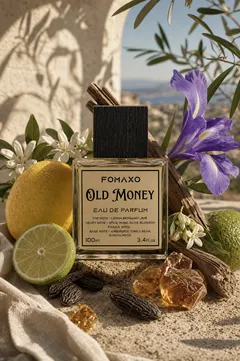
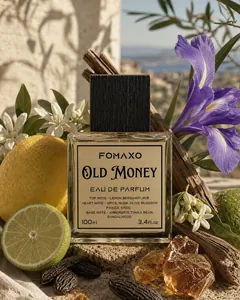
Same bottle size in every 50ml and 100ml photo (zoomed crops)
Claude-Session: https://claude.ai/code/session_01RdpYFyWZFVz91MJPvPAq8Q

diff --git a/index.html b/index.html
@@ -2308,7 +2308,7 @@ window.STORE = {
       ],
       notes: { top: "Lemon · Bergamot · Vervain", heart: "Star Anise · Olive Blossom · Guaiac Wood", base: "Ambergris · Leather · Sandalwood" },
       sizes: [10, 50, 100], prices: { 10: 40, 50: 90, 100: 150 }, compareAt: { 10: 80, 50: 150, 100: 300 },
-      images: ["oldmoney-50-main", "oldmoney-2", "oldmoney-3", "oldmoney-4"], sizeImages: { 100: "oldmoney-100-v2" }, extraImages: ["oldmoney-100b"], miniImage: "oldmoney-10-main", miniImages: ["oldmoney-10-main", "oldmoney-10-1", "oldmoney-10-2", "oldmoney-10-3"],
+      images: ["oldmoney-50-v2", "oldmoney-2", "oldmoney-3", "oldmoney-4"], sizeImages: { 100: "oldmoney-100-v2" }, extraImages: ["oldmoney-100b"], miniImage: "oldmoney-10-main", miniImages: ["oldmoney-10-main", "oldmoney-10-1", "oldmoney-10-2", "oldmoney-10-3"],
       url: "https://fomaxo.com/fomaxo-old-money"
     },
     {
@@ -2320,7 +2320,7 @@ window.STORE = {
       ],
       notes: { top: "Green Tangerine · Lemon · Sage", heart: "Candy · Gardenia · Cinnamon · Praline", base: "Black Amber · Rosewood · Musk" },
       sizes: [10, 50, 100], prices: { 10: 40, 50: 90, 100: 150 }, compareAt: { 10: 80, 50: 150, 100: 300 },
-      images: ["royalcandy-50-main", "royalcandy-2"], sizeImages: { 100: "royalcandy-100-v2" }, miniImage: "royalcandy-10-main", miniImages: ["royalcandy-10-main", "royalcandy-10-1", "royalcandy-10-2", "royalcandy-10-3"],
+      images: ["royalcandy-50-v2", "royalcandy-2"], sizeImages: { 100: "royalcandy-100-v2" }, miniImage: "royalcandy-10-main", miniImages: ["royalcandy-10-main", "royalcandy-10-1", "royalcandy-10-2", "royalcandy-10-3"],
       url: "https://fomaxo.com/fomaxo-royal-candy"
     },
     {
@@ -2344,7 +2344,7 @@ window.STORE = {
       ],
       notes: { top: "Matcha Tea · Rose · Cinnamon", heart: "Orange Blossom · Lily of the Valley · Tea Rose", base: "Coconut · Vanilla · Amber" },
       sizes: [10, 50, 100], prices: { 10: 40, 50: 90, 100: 150 }, compareAt: { 10: 80, 50: 150, 100: 300 },
-      images: ["matchacoco-50-main", "matchacoco-model", "matchacoco-2", "matchacoco-3"], sizeImages: { 100: "matchacoco-100-v2" }, miniImage: "matchacoco-10-main", miniImages: ["matchacoco-10-main", "matchacoco-10-1", "matchacoco-10-2"],
+      images: ["matchacoco-50-v2", "matchacoco-model", "matchacoco-2", "matchacoco-3"], sizeImages: { 100: "matchacoco-100-v2" }, miniImage: "matchacoco-10-main", miniImages: ["matchacoco-10-main", "matchacoco-10-1", "matchacoco-10-2"],
       url: ""
     },
     {
@@ -2356,7 +2356,7 @@ window.STORE = {
       ],
       notes: { top: "Passion Fruit · Lemon · Apple", heart: "Litchi · Patchouli · Bergamot", base: "Juniper Berry · Vetiver · Cedar" },
       sizes: [10, 50, 100], prices: { 10: 40, 50: 90, 100: 150 }, compareAt: { 10: 80, 50: 150, 100: 300 },
-      images: ["passionsin-main", "passionsin-2", "passionsin-3"], sizeImages: { 100: "passionsin-100-v2" }, miniImage: "passionsin-10-main", miniImages: ["passionsin-10-main", "passionsin-10-1", "passionsin-10-2", "passionsin-10-3"],
+      images: ["passionsin-50-v2", "passionsin-2", "passionsin-3"], sizeImages: { 100: "passionsin-100-v2" }, miniImage: "passionsin-10-main", miniImages: ["passionsin-10-main", "passionsin-10-1", "passionsin-10-2", "passionsin-10-3"],
       url: ""
     },
     {
@@ -2406,7 +2406,7 @@ const app = $('#app');
 const IMG = k => `assets/img/${k}.webp`;
 /* lighter copies of the photos for faster loading: t/ is 720px wide (product cards on laptops), s/ is 240px (small pictures in the bag,
    search, lists). Only the photos listed here have them; a photo uploaded later on the admin just uses the full photo. */
-const IMG_W = {"atelier":1027,"boutique-hq":1200,"boutique-people":848,"boutique-about":1145,"boutique":984,"discovery-1":800,"discovery-2":961,"discovery-3":984,"dollar-1":1114,"dollar-2":1043,"dollar-3":1398,"dollar-4":1394,"dollar-main":819,"dollar-main2":819,"elite-card":865,"elite-lounge-hq":848,"elite-lounge":862,"gift-1":984,"gift-2-hq":884,"gift-2":984,"gift-set-1-hq":986,"gift-set-1":1300,"gift-set-2-hq":925,"gift-set-2":1300,"gift-set-3-hq":857,"gift-set-3":1218,"gift-set-4-hq":841,"gift-set-4":1112,"gift-set-5-hq":856,"gift-set-5":1083,"gift-set-6-hq":860,"gift-set-6":1300,"gift-set-7-hq":1047,"gift-set-7":1300,"gold-1":1046,"gold-2":1046,"gold-3":1110,"gold-main":819,"gold-main2":819,"king-1":1048,"king-2":1048,"king-3":1048,"king-4":1048,"king-5":1400,"king-main":819,"matchacoco-1":1400,"matchacoco-100-v2":1100,"oldmoney-100-v2":1100,"passionsin-100-v2":1100,"royalcandy-100-v2":1100,"matchacoco-50-main":688,"matchacoco-model":730,"matchacoco-100-main":1100,"oldmoney-50-main":1100,"oldmoney-100-main":688,"royalcandy-50-main":688,"royalcandy-100-main":1100,"matchacoco-10-1":1013,"matchacoco-10-main":688,"matchacoco-10-2":1004,"matchacoco-100":799,"matchacoco-2":785,"matchacoco-3":773,"matchacoco-main":819,"matchacoco-main2":819,"oldmoney-1":1250,"oldmoney-10-1":782,"oldmoney-10-main":688,"oldmoney-10-2":859,"oldmoney-100":953,"oldmoney-100b":1153,"oldmoney-2":912,"oldmoney-3":917,"oldmoney-main":819,"passionsin-1":896,"passionsin-10-1":933,"passionsin-10-main":688,"passionsin-10-2":924,"passionsin-10-3":912,"passionsin-2":934,"passionsin-3":1400,"passionsin-main":819,"personal-care-poster":1024,"personal-care":842,"royalcandy-1":832,"royalcandy-10-1":764,"royalcandy-10-main":688,"royalcandy-10-2":858,"royalcandy-10-3":867,"royalcandy-100":1300,"royalcandy-2":1002,"royalcandy-main":819,"runway":805,"runway-couture":1024,"runway-couture-2":1024,"runway-personal-care":1024};
+const IMG_W = {"atelier":1027,"boutique-hq":1200,"boutique-people":848,"boutique-about":1145,"boutique":984,"discovery-1":800,"discovery-2":961,"discovery-3":984,"dollar-1":1114,"dollar-2":1043,"dollar-3":1398,"dollar-4":1394,"dollar-main":819,"dollar-main2":819,"elite-card":865,"elite-lounge-hq":848,"elite-lounge":862,"gift-1":984,"gift-2-hq":884,"gift-2":984,"gift-set-1-hq":986,"gift-set-1":1300,"gift-set-2-hq":925,"gift-set-2":1300,"gift-set-3-hq":857,"gift-set-3":1218,"gift-set-4-hq":841,"gift-set-4":1112,"gift-set-5-hq":856,"gift-set-5":1083,"gift-set-6-hq":860,"gift-set-6":1300,"gift-set-7-hq":1047,"gift-set-7":1300,"gold-1":1046,"gold-2":1046,"gold-3":1110,"gold-main":819,"gold-main2":819,"king-1":1048,"king-2":1048,"king-3":1048,"king-4":1048,"king-5":1400,"king-main":819,"matchacoco-1":1400,"oldmoney-50-v2":880,"royalcandy-50-v2":636,"matchacoco-50-v2":524,"passionsin-50-v2":591,"oldmoney-100-v2":880,"royalcandy-100-v2":880,"matchacoco-100-v2":870,"passionsin-100-v2":880,"matchacoco-50-main":688,"matchacoco-model":730,"matchacoco-100-main":1100,"oldmoney-50-main":1100,"oldmoney-100-main":688,"royalcandy-50-main":688,"royalcandy-100-main":1100,"matchacoco-10-1":1013,"matchacoco-10-main":688,"matchacoco-10-2":1004,"matchacoco-100":799,"matchacoco-2":785,"matchacoco-3":773,"matchacoco-main":819,"matchacoco-main2":819,"oldmoney-1":1250,"oldmoney-10-1":782,"oldmoney-10-main":688,"oldmoney-10-2":859,"oldmoney-100":953,"oldmoney-100b":1153,"oldmoney-2":912,"oldmoney-3":917,"oldmoney-main":819,"passionsin-1":896,"passionsin-10-1":933,"passionsin-10-main":688,"passionsin-10-2":924,"passionsin-10-3":912,"passionsin-2":934,"passionsin-3":1400,"passionsin-main":819,"personal-care-poster":1024,"personal-care":842,"royalcandy-1":832,"royalcandy-10-1":764,"royalcandy-10-main":688,"royalcandy-10-2":858,"royalcandy-10-3":867,"royalcandy-100":1300,"royalcandy-2":1002,"royalcandy-main":819,"runway":805,"runway-couture":1024,"runway-couture-2":1024,"runway-personal-care":1024};
 const SM = k => IMG_W[k] ? `assets/img/s/${k}.webp` : IMG(k);
 const CARD_SIZES = '(max-width:600px) 92vw, (max-width:1100px) 46vw, min(31vw, 500px)';
 const cardPic = k => `src="${IMG(k)}"` + (IMG_W[k] ? ` srcset="assets/img/t/${k}.webp 720w, ${IMG(k)} ${IMG_W[k]}w" sizes="${CARD_SIZES}"` : '');

diff --git a/orders-lib.php b/orders-lib.php
@@ -148,10 +148,11 @@ function fomaxo_db_schema($pdo) {
     $set->execute([fomaxo_json($d), $id]);
   }
   $pdo->exec("REPLACE INTO fx_settings (k, v) VALUES ('schema', '23')");
-  /* v24: newer 100ml bottle photos for Old Money, Royal Candy, Matcha Coco and Passion Sin */
-  foreach (['oldmoney', 'royalcandy', 'matchacoco', 'passionsin'] as $id) {
+  /* v24: newer 100ml bottle photos for Old Money, Royal Candy, Matcha Coco and Passion Sin, and 50ml photos zoomed so the bottle is the same size in every photo */
+  foreach (['oldmoney' => 'oldmoney-50-main', 'royalcandy' => 'royalcandy-50-main', 'matchacoco' => 'matchacoco-50-main', 'passionsin' => 'passionsin-main'] as $id => $old) {
     $get->execute([$id]); $d = json_decode((string)$get->fetchColumn(), true);
     if (!is_array($d)) continue;
+    $d['images'] = array_values(array_merge(["$id-50-v2"], array_diff(array_filter((array)($d['images'] ?? []), 'is_string'), [$old, "$id-50-v2"])));
     $d['sizeImages'] = (array)($d['sizeImages'] ?? []); $d['sizeImages']['100'] = "$id-100-v2";
     $set->execute([fomaxo_json($d), $id]);
   }
